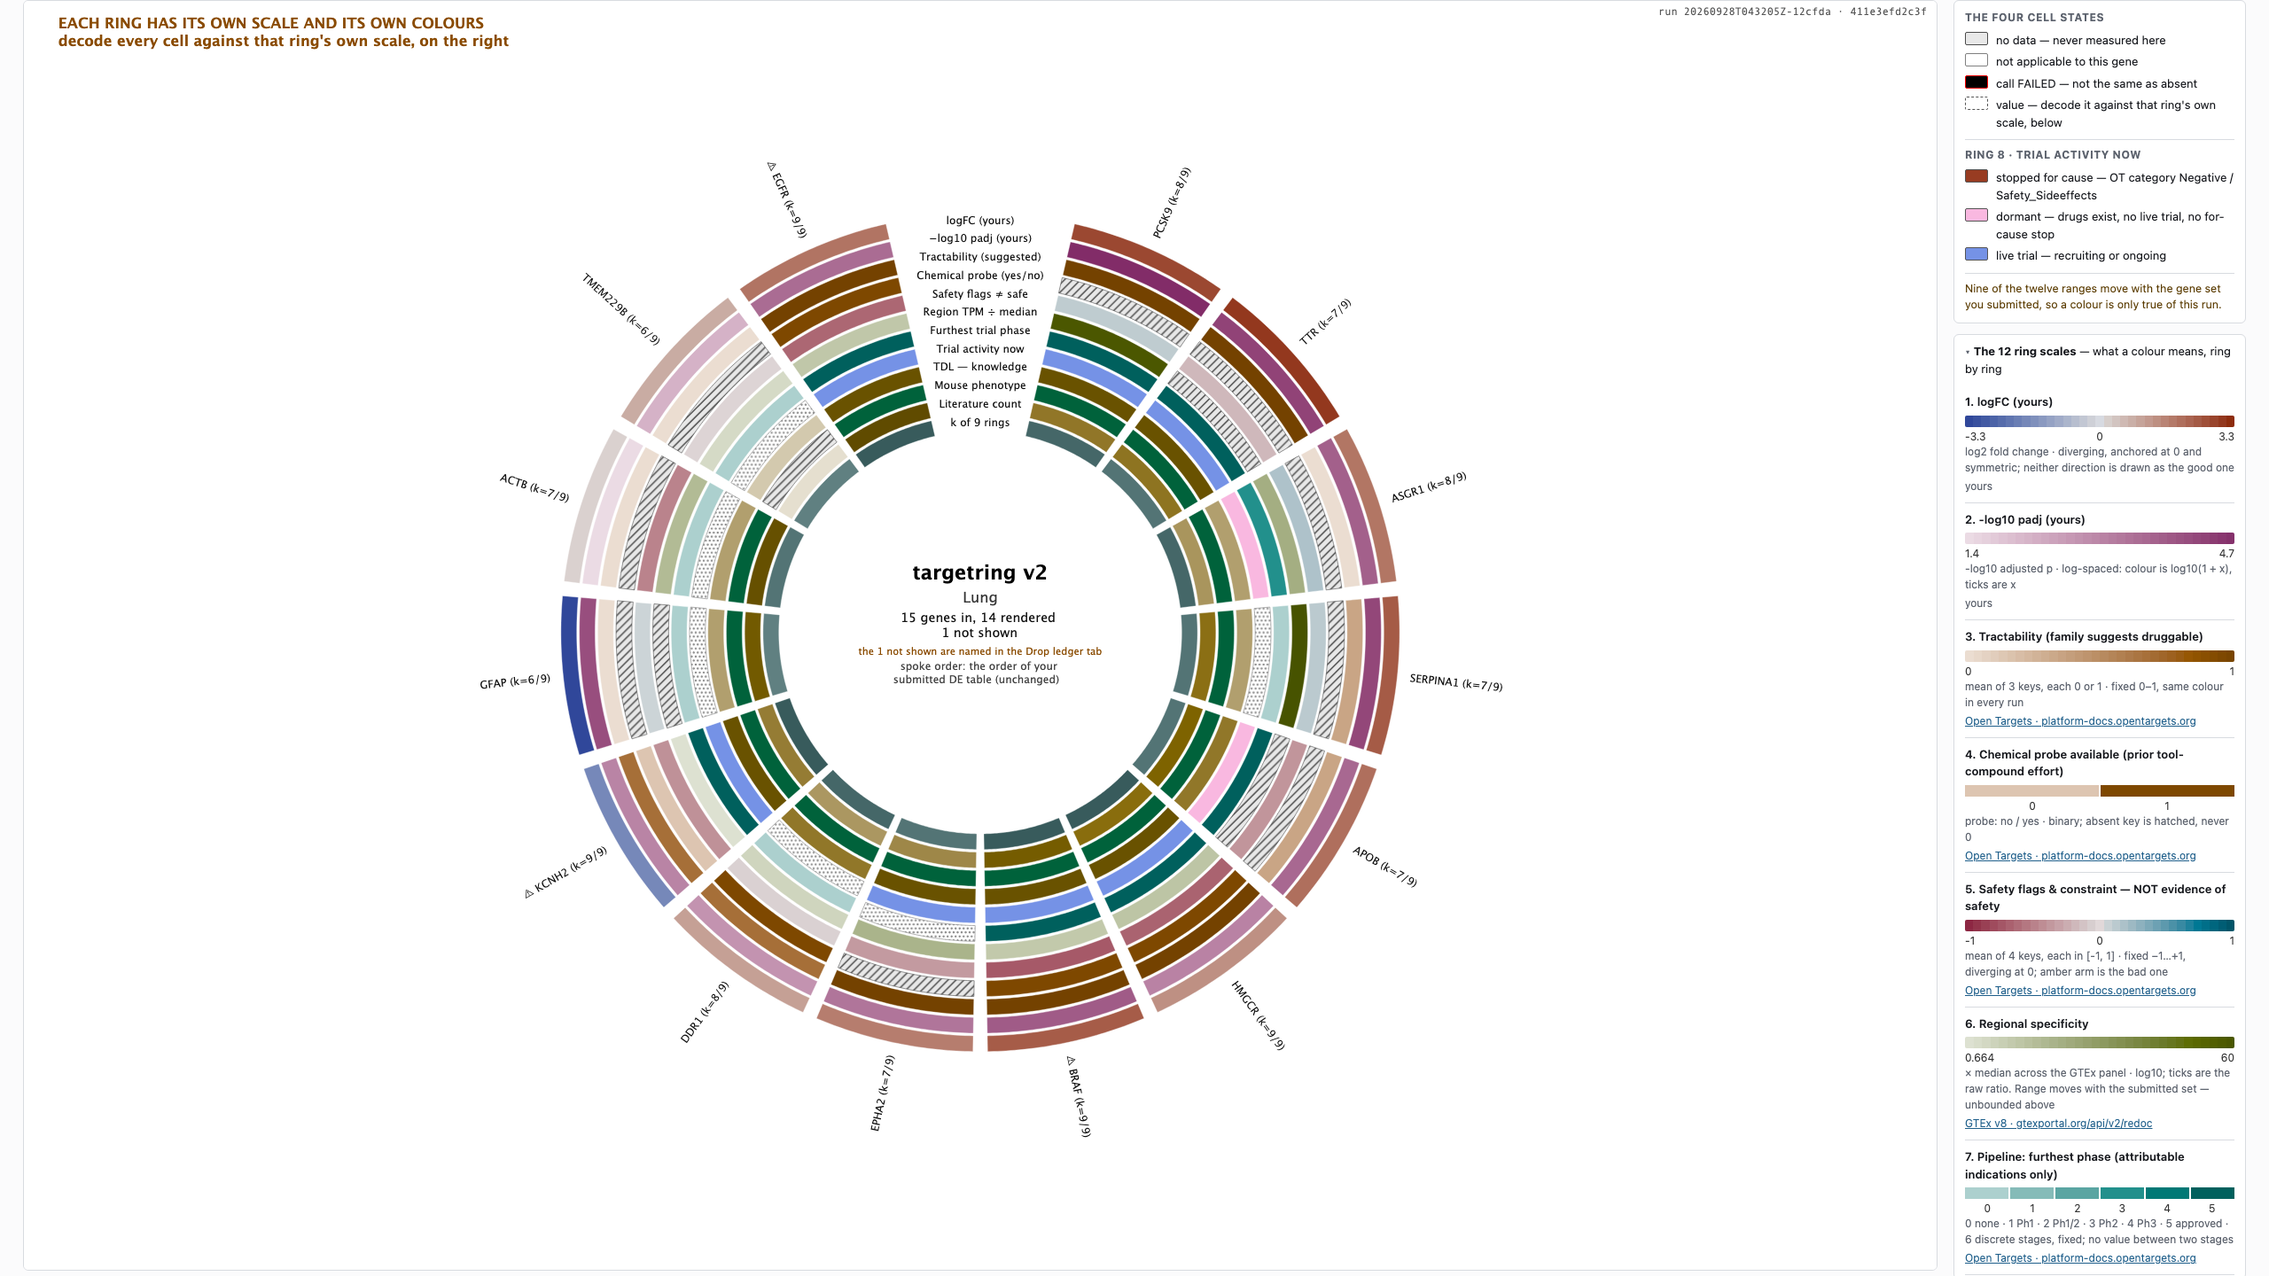
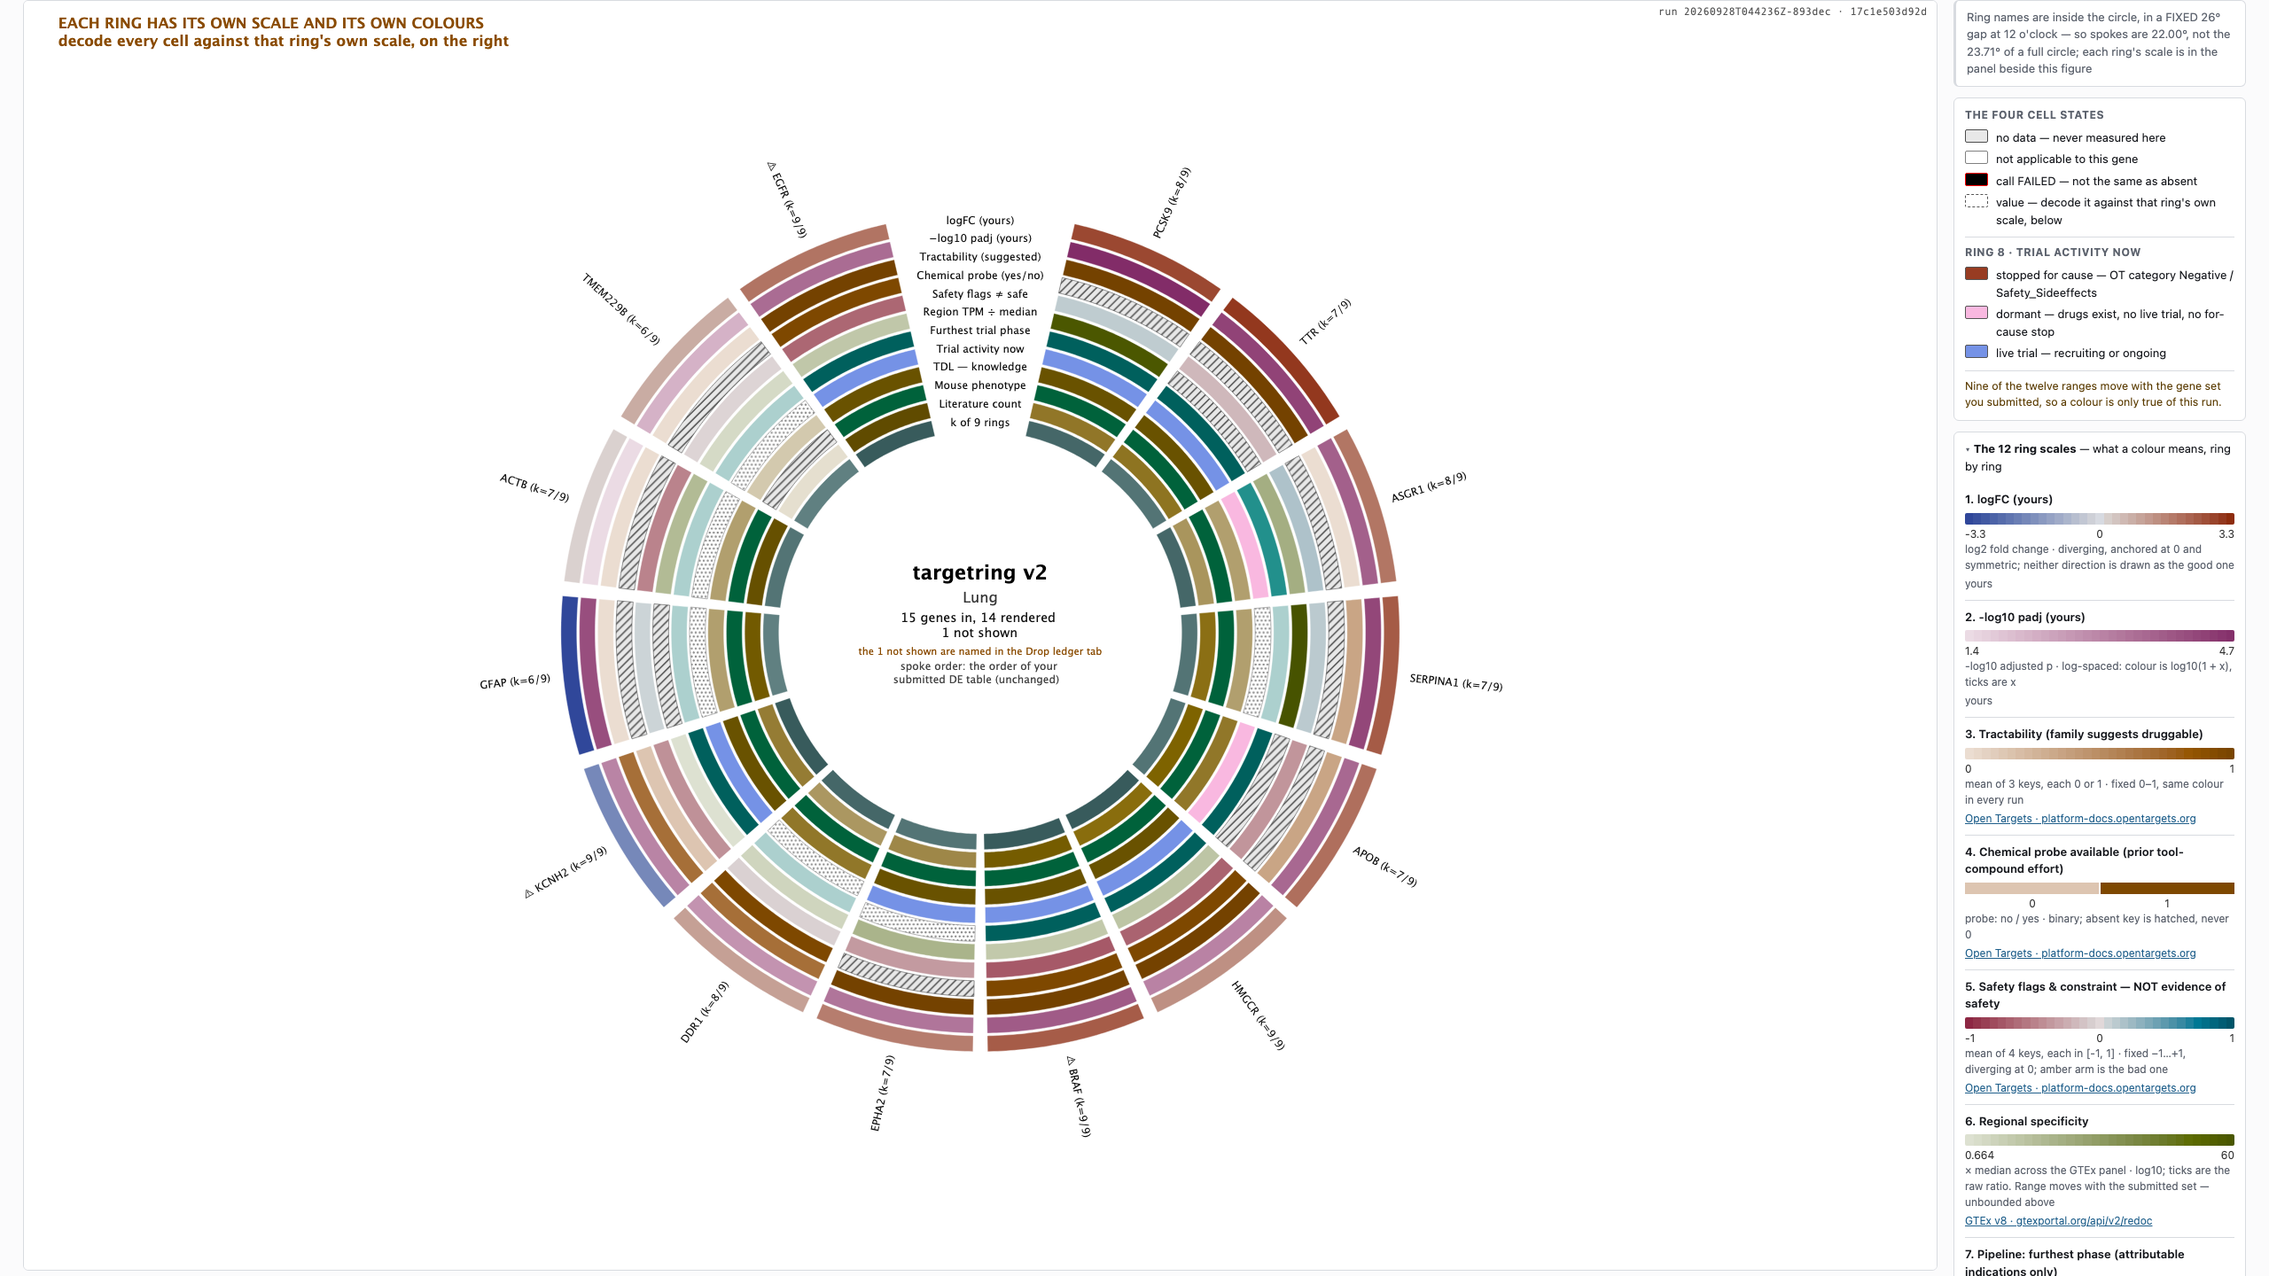
v3.5 item 2: the sentence that explains the empty wedge moves beside the figure
With the ring names off, the 26 deg gap reads as a rendering bug: a wedge of
white where every other spoke has twelve bands. The sentence that answers it
was the third clause of the strip UNDER the circle -- measured live today at
1,307 px down the document against a 900 px window, i.e. 400 px below the fold
on the laptop this review measures at, on the one element whose whole job is to
be read at the same time as the thing it is about.

It is now at the top of the decode panel beside the figure: document y = 403 px,
level with the top of the circle, in the same viewport as the gap.

Moved, not copied. `caveats_for_the_page` classifies it `where` -- a third kind
beside B14's `warn` and `how` -- and app.js draws `where` into #wedge-note and
everything else into #figure-caveats, two complementary filters of one list. So
it appears exactly once on the page, and the page still never writes the
sentence: it states this run's own spoke angles (22.00 deg against 23.71) and
which arrangement the render is in, so it comes from wedge_note or it is
COUNCIL V5. Round 2 A6 deleted a caveat that had been added beside an existing
copy rather than moved; that is the class of bug this item must not reintroduce,
and three tests hold it.

Styled as a note about the drawing, not as a caveat: 13 px and grey, the same
size it was under the circle. This item moved it, it did not promote it.

Live at 1440x900 and 2560x1440 (docs/screenshots/v35-*.png, re-taken after this
[…]

Changed region(s): [[0.8125, 0.0, 1.0, 1.0]]

diff --git a/targetring/static/index.html b/targetring/static/index.html
@@ -217,6 +217,26 @@
           <p id="figure-caveats" class="figure-caveats"></p>
         </div>
         <aside id="decode">
+          <!-- v3.5 item 2. The sentence that explains the gap at 12 o'clock, and
+               it is here because of what it explains rather than to tidy the
+               strip below.
+
+               With the ring names off, the gap reads as a rendering bug: a
+               wedge of white where every other spoke has twelve bands. The
+               sentence that answers it was the third clause of
+               `#figure-caveats`, 953 px down the document — below the fold on
+               the 1440 x 900 laptop this review measures at, so the question and
+               its answer were never on the screen at once. Beside the figure it
+               is read while the hole is being looked at.
+
+               ONE statement, in one place. `figure.caveats_for_the_page`
+               classifies it `where` and drops it from the strip under the
+               circle in the same move, so there is no copy to go stale — round 2
+               A6 deleted a caveat that had been added beside an existing one
+               instead of moved, and that is the class of bug this must not
+               reintroduce. It is outside every `<details>` on the page, like the
+               two things that may never be behind a click. -->
+          <p id="wedge-note" class="wedge-note"></p>
           <div id="cell-states"></div>
           <details id="scales" open>
             <summary><span class="chev" aria-hidden="true">▾</span>

diff --git a/targetring/static/app.js b/targetring/static/app.js
@@ -418,11 +418,24 @@ function renderDecode(s) {
 // v3.3 / round 3 B14: two groups, not five equal lines. `kind` comes from the
 // render, so what is a caveat and what is a note about the drawing is decided
 // once, where the sentences are written.
+// v3.5 item 2: `where` — the one clause that explains the 12 o'clock gap — is
+// drawn at the top of the decode panel beside the figure instead, because it is
+// the answer to a question a reader asks while looking at the gap, and under the
+// circle it was below the fold. Split by the kind the render gave it, so each
+// clause is drawn exactly once and `app.js` never has to recognise a sentence.
 function drawFigureCaveats(clauses) {
+  const all = clauses || [];
   const cav = $("#figure-caveats");
-  if (!cav) return;
-  cav.innerHTML = (clauses || [])
-    .map((c) => `<span class="${esc(c.kind)}">${esc(c.text)}</span>`).join("");
+  if (cav) {
+    cav.innerHTML = all.filter((c) => c.kind !== "where")
+      .map((c) => `<span class="${esc(c.kind)}">${esc(c.text)}</span>`).join("");
+  }
+  const note = $("#wedge-note");
+  if (note) {
+    const where = all.filter((c) => c.kind === "where");
+    note.innerHTML = where.map((c) => esc(c.text)).join(" ");
+    note.hidden = where.length === 0;
+  }
 }
 
 function wireFigure() {

diff --git a/targetring/static/app.css b/targetring/static/app.css
@@ -260,6 +260,22 @@ ul.tight li { margin: 2px 0; }
 .figure-caveats span.warn { color: #5a3b00; font-weight: 600; }
 .figure-caveats span.how { color: var(--muted); font-weight: 400; }
 
+/* v3.5 item 2. The sentence that explains the gap at 12 o'clock, at the top of
+   the decode panel: beside the figure, at the height of the circle's own top,
+   so the hole and the reason for it are in one viewport.
+
+   Styled as a note about the drawing and not as a caveat — same job as
+   `.figure-caveats span.how`, 13 px and grey — because amber is what this page
+   uses for "this could mislead you", and an empty wedge is a fact about the
+   geometry. It is the same 13 px it was under the circle: this item moved it,
+   it did not promote it. */
+.wedge-note {
+  margin: 0 0 12px; padding: 9px 12px; font-size: 13px; line-height: 1.5;
+  color: var(--muted); background: #fff;
+  border: 1px solid var(--line); border-left: 3px solid var(--line);
+  border-radius: 6px;
+}
+
 /* Always open, no control, no state in which it is not on screen: it is one of
    the two things the UX-v3 rule says an animation may never take away. */
 #cell-states { border: 1px solid var(--line); border-radius: 6px; background: #fff;

diff --git a/tests/test_presentation.py b/tests/test_presentation.py
@@ -1819,7 +1819,10 @@ class TestUXv3Round2ThePageAReaderWorksIn:
         from targetring.figure import SAFETY_RING_CAVEAT, caveats_for_the_page
         keep, page = caveats_for_the_page(ORDER_NOTE, [], "a FIXED 26° gap")
         assert keep == "", "nothing to say about filters on an unfiltered run"
-        assert {c["kind"] for c in page} <= {"warn", "how"}, page
+        # v3.5 item 2 adds `where` -- the clause about the gap, which the page
+        # draws beside the figure rather than under it. Still a closed set, and
+        # still every clause handed over rather than dropped.
+        assert {c["kind"] for c in page} <= {"warn", "how", "where"}, page
         body = " ".join(c["text"] for c in page)
         assert SAFETY_RING_CAVEAT in body
         assert ORDER_NOTE in body
@@ -2200,7 +2203,11 @@ class TestUXv3Round3TheProjectedArtefactAndTheDrawer:
         page = caveats_for_the_page(ORDER_NOTE, [], "a FIXED 26° gap")[1]
         kinds = [c["kind"] for c in page]
         assert kinds[0] == "warn", "the safety caveat leads"
-        assert set(kinds) == {"warn", "how"}, kinds
+        # v3.5 item 2: three kinds, because the clause that explains the gap is
+        # not read in the same place as the ones about the data. B14's finding is
+        # unchanged -- what must not happen is clauses with different jobs drawn
+        # at one weight, and this splits them further rather than merging them.
+        assert set(kinds) == {"warn", "how", "where"}, kinds
         css = (STATIC / "app.css").read_text()
         assert ".figure-caveats span.warn" in css
         assert ".figure-caveats span.how" in css
@@ -2564,3 +2571,86 @@ class TestV35TheCircleGrowsWithTheWindow:
         assert AUDIT.wedge_label_size == 7.4 and AUDIT.wedge_labels_in_svg is True
         for lay in (AUDIT, SLIDE, LEGEND):
             assert lay.wedge_label_floor_px is None
+
+
+class TestV35TheEmptyWedgeExplainsItselfBesideTheFigure:
+    """v3.5 item 2. With the ring names off, the 26° gap reads as a rendering
+    bug — a wedge of white where every other spoke has twelve bands — and the
+    sentence that answers that was the third clause of the strip UNDER the
+    circle, 953 px down the document on the 1440 x 900 laptop this review
+    measures at. Below the fold, on the one page element whose job is to be read
+    at the same time as the thing it is about.
+
+    It is beside the figure now, at the top of the decode panel, and it is there
+    exactly once. Round 2's A6 is the reason that second half is a test: the
+    duplicated comparability band was a sentence that had been ADDED beside an
+    existing copy instead of moved, and two copies of a sentence that states this
+    run's own geometry is COUNCIL V5 waiting for one of them to go stale.
+    """
+
+    def test_the_clause_that_explains_the_gap_is_classified_not_recognised(
+            self) -> None:
+        """`app.js` must not have to know which sentence this is. The render
+        classifies it `where`, in the same function that writes it, so a clause
+        whose wording changes cannot end up in the wrong place — and there is
+        exactly one of them."""
+        from targetring.figure import caveats_for_the_page
+        page = caveats_for_the_page(ORDER_NOTE, [], "a FIXED 26° gap at 12 o'clock")[1]
+        where = [c for c in page if c["kind"] == "where"]
+        assert len(where) == 1, page
+        assert "26°" in where[0]["text"]
+        # ...and it is no longer in the group drawn under the circle.
+        assert all("26°" not in c["text"] for c in page if c["kind"] != "where")
+        # A layout with no gap hands over no such clause rather than an empty one.
+        assert [c for c in caveats_for_the_page(ORDER_NOTE, [], "")[1]
+                if c["kind"] == "where"] == []
+
+    def test_the_page_draws_it_beside_the_figure_and_not_below_it(self) -> None:
+        html, js = _html(), _js()
+        assert 'id="wedge-note"' in html
+        assert html.index('id="decode"') < html.index('id="wedge-note"'), (
+            "the note is not in the panel beside the figure")
+        assert html.index('id="wedge-note"') < html.index('id="cell-states"'), (
+            "it is below the twelve scales, which is the bottom of a 900 px "
+            "window again")
+        assert not _inside_a_disclosure(html, "wedge-note"), (
+            "an explanation behind a click is an explanation nobody read")
+        assert 'c.kind === "where"' in js and 'c.kind !== "where"' in js, (
+            "the page must split the clauses by the kind the render gave them")
+
+    def test_it_is_drawn_once_and_the_strip_below_no_longer_has_it(self) -> None:
+        """The no-duplication half, checked the way round 2's A6 had to be: by
+        counting where the sentence can reach, not by reading the page."""
+        js = _js()
+        # One producer: `drawFigureCaveats`, and the two groups it makes are
+        # complementary filters of one list.
+        assert js.count("#wedge-note") == 1, (
+            "two places write the note, so one of them can go stale")
+        body = js[js.index("function drawFigureCaveats"):]
+        body = body[:body.index("\nfunction ")]
+        assert body.count("figure_caveats") == 0 and "clauses" in body
+        assert "filter((c) => c.kind !== \"where\")" in body
+
+    def test_the_sentence_still_comes_from_the_render_that_drew_the_gap(
+            self, tmp_path: Path) -> None:
+        """COUNCIL V5, and the reason this item is a move rather than a line of
+        HTML: the sentence states this run's own spoke angles and which
+        arrangement the render is in. Moving it must not have turned it into
+        something the page writes."""
+        from targetring.figure import web_layout_for_viewport
+        lay = web_layout_for_viewport(*LAPTOP_WINDOW)
+        genes = [f"GENE{i:03d}" for i in range(14)]
+        spec = _full_ring_spec(genes)
+        res = render(genes=genes, cells_by_ring=spec, stats=gene_stats(spec),
+                     region="Lung", out_svg=tmp_path / "web.svg", input_count=14,
+                     rendered_count=14, ledger_counts={}, ordering_note=ORDER_NOTE,
+                     layout=lay, provenance="run T35 · abc123")
+        where = [c for c in res.web_caveats if c["kind"] == "where"]
+        assert len(where) == 1, res.web_caveats
+        # This run's numbers, not a constant: 14 spokes in 360 - 26 degrees.
+        assert "22.00°" in where[0]["text"], where[0]["text"]
+        assert "reserved at 12 o'clock" in where[0]["text"]
+        code = "\n".join(line for line in _js().splitlines()
+                         if not line.lstrip().startswith("//"))
+        assert "26°" not in code and "12 o'clock" not in code, (
+            "the page has started writing the sentence itself")

diff --git a/targetring/figure.py b/targetring/figure.py
@@ -2821,10 +2821,26 @@ def caveats_for_the_page(ordering_note: str, filter_notes: Sequence[str],
     slide render is not touched at all.
 
     v3.3 / UX v3 round 3 B14. The clauses come back CLASSIFIED, as
-    `{"kind": "warn"|"how", "text": ...}`. A safety caveat and a note about
+    `{"kind": "warn"|"how"|"where", "text": ...}`. A safety caveat and a note about
     where the ring names are are not the same kind of statement, and round 2
     shipped five of them at one weight -- `UX-v1-mvp.md` B3's "two sentences
     with different jobs reading as one grey run-on", one surface along.
+
+    v3.5 item 2. `where` is the third kind and it is one clause: the one that
+    explains the gap at 12 o'clock. It is classified rather than matched on,
+    because the page has to put it somewhere else and the alternative -- `app.js`
+    recognising the sentence by its words -- is a second implementation of which
+    sentence this is, in a file that cannot see when the sentence changes.
+
+    It needs a different place because of what it explains. The others are
+    caveats about the DATA and can be read after the figure; this one answers
+    "why is there a hole in my circle", which a reader asks while looking at the
+    hole. Under the circle it was 953 px down the document on a 900 px laptop --
+    below the fold, on the one page element whose whole job is to be read at the
+    same time as the thing it is about. The page draws it at the top of the
+    decode panel beside the figure (`#wedge-note`), and exactly once: this
+    function is the only place it comes from, and round 2's A6 is what happens
+    when a sentence is moved by copying it.
 
     And one clause is gone rather than reclassified. `slide_line` carries
     *"rings are scaled independently of one another"*, which is the
@@ -2838,7 +2854,7 @@ def caveats_for_the_page(ordering_note: str, filter_notes: Sequence[str],
     page = [("warn", f"The safety ring is {SAFETY_RING_CAVEAT}."),
             ("how", ordering_note)]
     if wedge_short:
-        page.append(("how", wedge_short[0].upper() + wedge_short[1:]))
+        page.append(("where", wedge_short[0].upper() + wedge_short[1:]))
     page.append(("how", "Every caveat this run carries is in the "
                         "What this is not tab."))
     return keep, [{"kind": k, "text": t} for k, t in page if t]

diff --git a/scripts/v35_shots.py b/scripts/v35_shots.py
@@ -68,12 +68,22 @@ PROBE = """() => {
     web_render: (typeof RUN !== 'undefined' && RUN) ? RUN.web_render : null,
     caveats,
     wedge_note_beside_the_figure: aside ? aside.textContent.trim() : null,
+    // Document coordinates, which is the unit round 2 measured the page in:
+    // where each block sits relative to the top of the page, against a 900 px
+    // window. Item 2 is the distance between these two numbers.
+    figure_top_px: Math.round(fig.getBoundingClientRect().top + window.scrollY),
     caveats_top_px: (() => {
       const el = document.querySelector('#figure-caveats');
       if (!el) return null;
-      const r = el.getBoundingClientRect();
-      return Math.round(r.top + window.scrollY);
+      return Math.round(el.getBoundingClientRect().top + window.scrollY);
     })(),
+    wedge_note_top_px: (() => {
+      const el = document.querySelector('#wedge-note');
+      if (!el || el.hidden) return null;
+      return Math.round(el.getBoundingClientRect().top + window.scrollY);
+    })(),
+    // The page as one document, so "was it on the screen at all" is measurable.
+    document_px: Math.round(document.documentElement.scrollHeight),
   };
 }"""
 
@@ -162,6 +172,9 @@ def main() -> int:
             print(f"  smallest name on screen: {min(sizes):.2f} CSS px")
         for c in pr["caveats"]:
             print(f"  caveat  {c[:110]}")
+        print(f"  figure top {pr['figure_top_px']} px · #wedge-note top "
+              f"{pr['wedge_note_top_px']} px · #figure-caveats top "
+              f"{pr['caveats_top_px']} px · document {pr['document_px']} px")
         if pr["wedge_note_beside_the_figure"]:
             print(f"  beside the figure: {pr['wedge_note_beside_the_figure'][:110]}")
     print(f"\nwrote {OUT}/v35-*.png and logs/v35-live-probe.json")
